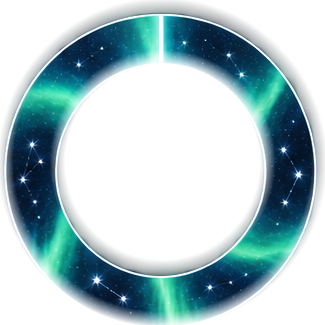
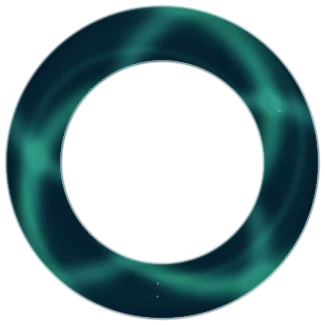
Add files via upload

diff --git a/src/styles.css b/src/styles.css
@@ -1112,11 +1112,11 @@ body.admin-mode button{
 
 /* Aurora Apex / timed navigation capture */
 .aurora-panel{position:relative;overflow:hidden;background:
-  radial-gradient(54% 32% at 50% 31%,rgba(28,145,163,.22),transparent 75%),
-  radial-gradient(38% 22% at 16% 55%,rgba(40,215,179,.13),transparent 74%),
-  radial-gradient(40% 24% at 84% 52%,rgba(40,215,179,.13),transparent 74%),
+  radial-gradient(54% 32% at 50% 31%,rgba(28,145,163,.08),transparent 75%),
+  radial-gradient(38% 22% at 16% 55%,rgba(40,215,179,.045),transparent 74%),
+  radial-gradient(40% 24% at 84% 52%,rgba(40,215,179,.045),transparent 74%),
   linear-gradient(180deg,rgba(5,25,39,.98),rgba(3,16,27,.99));border-color:#205e76;}
-.aurora-panel::before{content:"";position:absolute;inset:0;pointer-events:none;opacity:.72;background-image:
+.aurora-panel::before{content:"";position:absolute;inset:0;pointer-events:none;opacity:.46;background-image:
   radial-gradient(1.5px 1.5px at 8% 16%,rgba(255,255,255,.85),transparent 75%),
   radial-gradient(1.2px 1.2px at 17% 31%,rgba(255,255,255,.65),transparent 75%),
   radial-gradient(1.4px 1.4px at 27% 13%,rgba(255,255,255,.78),transparent 75%),
@@ -1128,70 +1128,70 @@ body.admin-mode button{
   radial-gradient(1.2px 1.2px at 12% 64%,rgba(255,255,255,.72),transparent 75%),
   radial-gradient(1.4px 1.4px at 82% 69%,rgba(255,255,255,.66),transparent 75%);}
 .aurora-atmosphere{position:absolute;inset:0;pointer-events:none;background:
-  radial-gradient(38% 30% at 6% 53%,rgba(75,243,195,.12),transparent 72%),
-  radial-gradient(40% 32% at 95% 48%,rgba(75,243,195,.13),transparent 72%);}
+  radial-gradient(38% 30% at 6% 53%,rgba(75,243,195,.04),transparent 72%),
+  radial-gradient(40% 32% at 95% 48%,rgba(75,243,195,.045),transparent 72%);}
 .aurora-north{position:relative;z-index:6;display:grid;justify-items:center;gap:2px;margin:0 auto 4px;color:#efffff;text-align:center;transition:filter .14s ease,transform .14s ease;}
-.aurora-north-star{font-size:30px;line-height:.82;color:#eaffff;text-shadow:0 0 10px #eaffff,0 0 24px rgba(75,243,237,.78);transition:.16s ease;}
+.aurora-north-star{font-size:30px;line-height:.82;color:#eaffff;text-shadow:0 0 6px rgba(234,255,255,.9),0 0 14px rgba(75,243,237,.38);transition:.16s ease;}
 .aurora-north strong{font-family:var(--display);font-size:12px;letter-spacing:.14em;text-transform:uppercase;}
 .aurora-north i{width:0;height:0;border-left:8px solid transparent;border-right:8px solid transparent;border-bottom:14px solid #efffff;margin-top:2px;filter:drop-shadow(0 0 7px rgba(119,242,255,.58));transition:.16s ease;}
 .aurora-north.capture-ready{filter:brightness(1.2);transform:translateY(1px);}
-.aurora-north.capture-ready .aurora-north-star{text-shadow:0 0 9px #fff,0 0 20px #79f6ff,0 0 34px rgba(80,239,210,.72);}
+.aurora-north.capture-ready .aurora-north-star{text-shadow:0 0 7px #fff,0 0 15px rgba(121,246,255,.75),0 0 22px rgba(80,239,210,.38);}
 .aurora-north.capture-ready i{filter:drop-shadow(0 0 10px rgba(185,255,255,.95));}
 .aurora-north.complete{animation:auroraNorthLock .9s ease-out both;}
 
-.aurora-dial{position:relative;z-index:3;aspect-ratio:1;margin:0 auto;touch-action:none;user-select:none;border-radius:50%;cursor:pointer;box-shadow:0 0 34px rgba(28,155,181,.08);outline:none;isolation:isolate;}
+.aurora-dial{position:relative;z-index:3;aspect-ratio:1;margin:0 auto;touch-action:none;user-select:none;border-radius:50%;cursor:pointer;box-shadow:0 0 18px rgba(28,155,181,.035);outline:none;isolation:isolate;}
 .aurora-dial:focus-visible{outline:2px solid rgba(108,235,255,.9);outline-offset:4px;}
 .aurora-dial.pressed{transform:scale(.997);}
 .aurora-field{position:absolute;inset:2.6%;border-radius:50%;pointer-events:none;background:
-  radial-gradient(circle at 50% 50%,#061c2b 0 17%,rgba(3,17,28,.98) 17% 100%),
-  radial-gradient(circle at 31% 39%,rgba(42,225,194,.08),transparent 21%),
-  radial-gradient(circle at 70% 63%,rgba(42,205,236,.07),transparent 24%);box-shadow:inset 0 0 0 1px rgba(108,221,239,.08);}
+  radial-gradient(circle at 50% 50%,#061927 0 17%,rgba(3,15,25,.99) 17% 100%),
+  radial-gradient(circle at 31% 39%,rgba(42,225,194,.028),transparent 21%),
+  radial-gradient(circle at 70% 63%,rgba(42,205,236,.025),transparent 24%);box-shadow:inset 0 0 0 1px rgba(108,221,239,.055);}
 .aurora-field::before{content:"";position:absolute;inset:0;border-radius:50%;background:
   radial-gradient(circle at 24% 31%,rgba(255,255,255,.76) 0 1px,transparent 1.8px),
   radial-gradient(circle at 33% 72%,rgba(255,255,255,.72) 0 1px,transparent 1.7px),
   radial-gradient(circle at 76% 29%,rgba(255,255,255,.74) 0 1px,transparent 1.8px),
   radial-gradient(circle at 69% 70%,rgba(255,255,255,.64) 0 1px,transparent 1.7px);}
-.aurora-target-line{position:absolute;z-index:8;left:50%;top:3.5%;height:47%;width:2px;transform:translateX(-50%);background:linear-gradient(180deg,#efffff 0%,rgba(95,246,255,.68) 28%,rgba(95,246,255,.13) 76%,transparent);box-shadow:0 0 9px rgba(123,246,255,.48);pointer-events:none;transition:filter .15s ease,box-shadow .15s ease,width .15s ease;}
+.aurora-target-line{position:absolute;z-index:8;left:50%;top:3.5%;height:47%;width:1px;transform:translateX(-50%);background:linear-gradient(180deg,rgba(239,255,255,.92) 0%,rgba(95,246,255,.48) 28%,rgba(95,246,255,.08) 76%,transparent);box-shadow:0 0 5px rgba(123,246,255,.28);pointer-events:none;transition:filter .15s ease,box-shadow .15s ease,width .15s ease;}
 .aurora-capture-gate{position:absolute;z-index:9;left:50%;top:2.1%;width:42px;height:18px;transform:translateX(-50%);pointer-events:none;opacity:.72;}
 .aurora-capture-gate::before,.aurora-capture-gate::after{content:"";position:absolute;top:0;width:12px;height:12px;border-top:1px solid rgba(199,249,255,.72);}
 .aurora-capture-gate::before{left:0;border-left:1px solid rgba(199,249,255,.72);transform:skewX(-16deg);}
 .aurora-capture-gate::after{right:0;border-right:1px solid rgba(199,249,255,.72);transform:skewX(16deg);}
 .aurora-capture-gate i{position:absolute;left:50%;top:0;width:4px;height:4px;margin-left:-2px;border-radius:50%;background:#efffff;box-shadow:0 0 8px rgba(188,250,255,.9);}
-.aurora-dial.capture-ready .aurora-target-line{width:3px;filter:brightness(1.28);box-shadow:0 0 9px #c8fbff,0 0 20px rgba(85,238,225,.68);}
+.aurora-dial.capture-ready .aurora-target-line{width:2px;filter:brightness(1.18);box-shadow:0 0 6px rgba(200,251,255,.8),0 0 12px rgba(85,238,225,.35);}
 .aurora-dial.capture-ready .aurora-capture-gate{opacity:1;filter:drop-shadow(0 0 7px rgba(116,244,255,.8));}
 
-.aurora-ring{--aurora-rotation:0deg;position:absolute;left:50%;top:50%;transform:translate(-50%,-50%) rotate(var(--aurora-rotation));transform-origin:50% 50%;will-change:transform,filter;pointer-events:none;transition:filter .16s ease,opacity .16s ease;}
-.aurora-ring img{display:block;width:100%;height:100%;object-fit:contain;pointer-events:none;user-select:none;-webkit-user-drag:none;filter:saturate(1.08) contrast(1.03);}
+.aurora-ring{--aurora-rotation:0deg;position:absolute;inset:0;margin:auto;transform:rotate(var(--aurora-rotation));transform-origin:50% 50%;will-change:transform,filter;pointer-events:none;transition:filter .16s ease,opacity .16s ease;}
+.aurora-ring img{display:block;width:100%;height:100%;object-fit:contain;pointer-events:none;user-select:none;-webkit-user-drag:none;filter:saturate(.94) contrast(1.02) brightness(.97);}
 .aurora-ring-outer{width:91%;height:91%;z-index:3;}
 .aurora-ring-middle{width:60%;height:60%;z-index:4;}
 .aurora-ring-inner{width:34%;height:34%;z-index:5;}
 .aurora-lock-notch{position:absolute;z-index:6;left:50%;top:-1px;width:5px;height:12px;border-radius:4px;transform:translateX(-50%);background:linear-gradient(180deg,#f6ffff,#83edff 60%,rgba(91,219,238,.15));box-shadow:0 0 6px rgba(214,253,255,.82),0 0 13px rgba(76,218,244,.36);opacity:.28;transition:opacity .15s ease,filter .15s ease,height .15s ease;}
-.aurora-ring.active{filter:drop-shadow(0 0 12px rgba(98,229,247,.31));}
+.aurora-ring.active{filter:drop-shadow(0 0 6px rgba(98,229,247,.17));}
 .aurora-ring.active .aurora-lock-notch{opacity:.96;height:14px;}
-.aurora-ring.near-lock{filter:drop-shadow(0 0 22px rgba(136,252,241,.74)) brightness(1.08);}
+.aurora-ring.near-lock{filter:drop-shadow(0 0 10px rgba(136,252,241,.38)) brightness(1.045);}
 .aurora-ring.near-lock .aurora-lock-notch{filter:brightness(1.35);box-shadow:0 0 8px #f4ffff,0 0 19px rgba(104,244,226,.86);}
-.aurora-ring.braking{filter:drop-shadow(0 0 20px rgba(119,239,255,.68)) brightness(1.06);}
-.aurora-ring.locked{filter:drop-shadow(0 0 16px rgba(83,239,145,.54)) saturate(1.07);}
-.aurora-ring.locked img{filter:saturate(1.13) brightness(1.06) hue-rotate(7deg);}
+.aurora-ring.braking{filter:drop-shadow(0 0 9px rgba(119,239,255,.34)) brightness(1.04);}
+.aurora-ring.locked{filter:drop-shadow(0 0 8px rgba(83,239,145,.28)) saturate(1.04);}
+.aurora-ring.locked img{filter:saturate(1.02) brightness(1.035) hue-rotate(4deg);}
 .aurora-ring.locked .aurora-lock-notch{opacity:1;background:linear-gradient(180deg,#fff,#79f1ab 70%,rgba(75,231,139,.18));box-shadow:0 0 8px #eafff0,0 0 17px rgba(83,239,145,.65);}
 .aurora-ring.lock-burst{animation:auroraRingLock .58s ease-out;}
 .aurora-ring.wake{animation:auroraRingWake .5s ease-out;}
 .aurora-ring.miss{animation:auroraRingMiss .25s ease-out;}
 
-.aurora-charge-pulse{--pulse-size:91%;position:absolute;z-index:7;left:50%;top:50%;width:var(--pulse-size);height:var(--pulse-size);border:2px solid rgba(159,255,225,.9);border-radius:50%;transform:translate(-50%,-50%) scale(1);opacity:0;pointer-events:none;box-shadow:0 0 17px rgba(86,239,186,.34),inset 0 0 15px rgba(98,239,207,.16);}
+.aurora-charge-pulse{--pulse-size:91%;position:absolute;z-index:7;left:50%;top:50%;width:var(--pulse-size);height:var(--pulse-size);border:1px solid rgba(159,255,225,.78);border-radius:50%;transform:translate(-50%,-50%) scale(1);opacity:0;pointer-events:none;box-shadow:0 0 8px rgba(86,239,186,.18),inset 0 0 8px rgba(98,239,207,.08);}
 .aurora-charge-pulse.fire{animation:auroraChargeIn .55s cubic-bezier(.25,.7,.2,1) both;}
 .aurora-final-wave{position:absolute;z-index:7;left:50%;top:50%;width:20%;height:20%;border:2px solid rgba(212,255,244,.9);border-radius:50%;transform:translate(-50%,-50%) scale(.35);opacity:0;pointer-events:none;}
 .aurora-final-wave.fire{animation:auroraFinalWave 1.15s ease-out both;}
 
-.aurora-compass{position:absolute;z-index:10;left:50%;top:50%;width:19%;height:19%;transform:translate(-50%,-50%);border-radius:50%;border:1px solid rgba(221,250,255,.9);display:grid;place-items:center;background:radial-gradient(circle,rgba(7,38,56,.98),rgba(3,15,26,.99));box-shadow:0 0 22px rgba(67,212,231,.12),inset 0 0 18px rgba(58,191,217,.07);pointer-events:none;transition:box-shadow .24s ease,border-color .24s ease,filter .24s ease;}
+.aurora-compass{position:absolute;z-index:10;left:50%;top:50%;width:19%;height:19%;transform:translate(-50%,-50%);border-radius:50%;border:1px solid rgba(221,250,255,.82);display:grid;place-items:center;background:radial-gradient(circle,rgba(7,34,50,.98),rgba(3,14,24,.99));box-shadow:0 0 12px rgba(67,212,231,.07),inset 0 0 13px rgba(58,191,217,.045);pointer-events:none;transition:box-shadow .24s ease,border-color .24s ease,filter .24s ease;}
 .aurora-compass::before,.aurora-compass::after{content:"";position:absolute;background:rgba(109,225,244,.19);}
 .aurora-compass::before{width:1px;height:78%;left:50%;top:11%;}.aurora-compass::after{height:1px;width:78%;left:11%;top:50%;}
-.aurora-compass span{position:relative;z-index:2;font-size:31px;color:#f4ffff;text-shadow:0 0 13px rgba(141,245,255,.92);transition:transform .24s ease,text-shadow .24s ease,filter .24s ease;}
+.aurora-compass span{position:relative;z-index:2;font-size:31px;color:#f4ffff;text-shadow:0 0 7px rgba(141,245,255,.62);transition:transform .24s ease,text-shadow .24s ease,filter .24s ease;}
 .aurora-dial[data-charge="1"] .aurora-compass{box-shadow:0 0 24px rgba(73,219,226,.22),inset 0 0 19px rgba(71,210,216,.12);}
 .aurora-dial[data-charge="1"] .aurora-compass span{transform:scale(1.05);text-shadow:0 0 12px #d9ffff,0 0 20px rgba(89,232,229,.68);}
-.aurora-dial[data-charge="2"] .aurora-compass{border-color:rgba(183,255,233,.95);box-shadow:0 0 27px rgba(83,239,176,.31),inset 0 0 22px rgba(74,231,185,.17);}
+.aurora-dial[data-charge="2"] .aurora-compass{border-color:rgba(183,255,233,.9);box-shadow:0 0 16px rgba(83,239,176,.18),inset 0 0 15px rgba(74,231,185,.10);}
 .aurora-dial[data-charge="2"] .aurora-compass span{transform:scale(1.12);text-shadow:0 0 9px #fff,0 0 20px rgba(108,255,211,.82),0 0 32px rgba(74,221,219,.38);}
-.aurora-dial[data-charge="3"] .aurora-compass{border-color:#dffff1;box-shadow:0 0 30px rgba(92,247,177,.46),0 0 50px rgba(81,220,235,.16),inset 0 0 24px rgba(93,244,193,.2);}
+.aurora-dial[data-charge="3"] .aurora-compass{border-color:#dffff1;box-shadow:0 0 18px rgba(92,247,177,.26),0 0 28px rgba(81,220,235,.08),inset 0 0 16px rgba(93,244,193,.12);}
 .aurora-dial[data-charge="3"] .aurora-compass span{transform:scale(1.2);text-shadow:0 0 8px #fff,0 0 20px #8fffc7,0 0 40px rgba(83,239,201,.72);}
 
 .aurora-dial.miss{animation:auroraDialMiss .25s ease-out;}
@@ -1213,18 +1213,18 @@ body.admin-mode button{
 .aurora-ring-status.locked strong,.aurora-ring-status.locked small{color:var(--green);}
 .aurora-ring-status.locked .aurora-mini-ring{border-color:#57ef91;border-right-color:#f7fff9;box-shadow:0 0 10px rgba(83,239,145,.28);animation:none;}
 
-@keyframes auroraRingLock{0%{filter:brightness(1)}35%{filter:brightness(1.65) drop-shadow(0 0 24px rgba(150,255,221,.95))}100%{filter:drop-shadow(0 0 16px rgba(83,239,145,.54)) saturate(1.07)}}
-@keyframes auroraRingWake{0%{filter:brightness(1)}45%{filter:brightness(1.28) drop-shadow(0 0 20px rgba(96,230,255,.6))}100%{filter:drop-shadow(0 0 12px rgba(98,229,247,.31))}}
+@keyframes auroraRingLock{0%{filter:brightness(1)}35%{filter:brightness(1.30) drop-shadow(0 0 11px rgba(150,255,221,.48))}100%{filter:drop-shadow(0 0 8px rgba(83,239,145,.28)) saturate(1.04)}}
+@keyframes auroraRingWake{0%{filter:brightness(1)}45%{filter:brightness(1.15) drop-shadow(0 0 9px rgba(96,230,255,.32))}100%{filter:drop-shadow(0 0 6px rgba(98,229,247,.17))}}
 @keyframes auroraRingMiss{0%,100%{opacity:1}45%{opacity:.62;filter:brightness(1.2)}}
 @keyframes auroraChargeIn{0%{opacity:.8;transform:translate(-50%,-50%) scale(1)}68%{opacity:.68}100%{opacity:0;transform:translate(-50%,-50%) scale(.17)}}
 @keyframes auroraMiniActive{0%,100%{box-shadow:0 0 8px rgba(76,201,238,.16)}50%{box-shadow:0 0 14px rgba(76,201,238,.38)}}
 @keyframes auroraDialMiss{0%,100%{filter:none}50%{filter:brightness(.84)}}
 @keyframes auroraFinalWave{0%{opacity:.82;transform:translate(-50%,-50%) scale(.35)}75%{opacity:.25}100%{opacity:0;transform:translate(-50%,-50%) scale(4.65)}}
-@keyframes auroraFinalRing{0%{filter:brightness(1.05)}20%{filter:brightness(1.72) saturate(1.22) drop-shadow(0 0 23px rgba(137,255,210,.86))}55%{filter:brightness(1.28) saturate(1.16) drop-shadow(0 0 20px rgba(83,239,145,.58))}100%{filter:brightness(1.14) saturate(1.12) drop-shadow(0 0 15px rgba(83,239,145,.44))}}
+@keyframes auroraFinalRing{0%{filter:brightness(1.03)}20%{filter:brightness(1.38) saturate(1.10) drop-shadow(0 0 12px rgba(137,255,210,.50))}55%{filter:brightness(1.18) saturate(1.08) drop-shadow(0 0 10px rgba(83,239,145,.34))}100%{filter:brightness(1.09) saturate(1.06) drop-shadow(0 0 8px rgba(83,239,145,.26))}}
 @keyframes auroraCoreFinal{0%{filter:brightness(1);transform:translate(-50%,-50%) scale(1)}16%{filter:brightness(1.65);transform:translate(-50%,-50%) scale(1.12)}38%{filter:brightness(1.28);transform:translate(-50%,-50%) scale(1.04)}100%{filter:brightness(1.16);transform:translate(-50%,-50%) scale(1.02)}}
 @keyframes auroraBeamFire{0%{opacity:.3;filter:brightness(1)}12%{opacity:1;filter:brightness(2)}45%{opacity:1;filter:brightness(1.4)}100%{opacity:.9;filter:brightness(1.1)}}
 @keyframes auroraNorthLock{0%{filter:brightness(1)}18%{filter:brightness(1.65);transform:translateY(1px) scale(1.04)}100%{filter:brightness(1.14);transform:none}}
-@keyframes auroraLockPulse{0%{box-shadow:0 0 34px rgba(28,155,181,.08)}24%{box-shadow:0 0 54px rgba(83,239,145,.3)}100%{box-shadow:0 0 34px rgba(28,155,181,.1)}}
+@keyframes auroraLockPulse{0%{box-shadow:0 0 18px rgba(28,155,181,.035)}24%{box-shadow:0 0 28px rgba(83,239,145,.16)}100%{box-shadow:0 0 18px rgba(28,155,181,.045)}}
 
 @media(max-width:390px){.aurora-panel{padding-left:9px;padding-right:9px;}.aurora-dial{width:100%;}.aurora-ring-statuses{gap:6px;}.aurora-ring-status{padding:9px 6px;gap:5px;}.aurora-ring-status strong{font-size:8px;}.aurora-ring-status small{font-size:6px;}.aurora-mini-ring{flex-basis:21px;width:21px;height:21px;border-width:3px;}.aurora-compass span{font-size:26px;}}
 @media(prefers-reduced-motion:reduce){.aurora-ring.lock-burst,.aurora-ring.wake,.aurora-final-wave.fire,.aurora-ring.final-surge,.aurora-dial.complete,.aurora-north.complete,.aurora-ring-status.active .aurora-mini-ring{animation-duration:.18s!important;animation-iteration-count:1!important;}}

diff --git a/index.html b/index.html
@@ -7,7 +7,7 @@
   <meta name="apple-mobile-web-app-capable" content="yes" />
   <meta name="apple-mobile-web-app-status-bar-style" content="black-translucent" />
   <link rel="manifest" href="./manifest.webmanifest" />
-  <link rel="stylesheet" href="./src/styles.css?v=7.14.0" />
+  <link rel="stylesheet" href="./src/styles.css?v=7.15.0" />
   <title>Silverstone Mission Control</title>
 </head>
 <body>
@@ -40,6 +40,6 @@
       }
     })();
   </script>
-  <script src="./src/main.js?v=7.14.0" defer></script>
+  <script src="./src/main.js?v=7.15.0" defer></script>
 </body>
 </html>

diff --git a/PRODUCTION-AUDIT.md b/PRODUCTION-AUDIT.md
@@ -1,4 +1,4 @@
-# Pass 7.14.0 — Production Audit
+# Pass 7.15.0 — Production Audit
 
 ## Result
 
@@ -6,27 +6,25 @@
 
 ## Production footprint
 
-- `dist/`: **8.339 MiB**
+- `dist/`: **7.925 MiB**
 - Production files: **49**
-- Versus the accepted Pass 7.11.0 baseline: **+11,462 bytes (~11.2 KiB)** and **no additional production files**.
-- The delta is code/CSS only; no new artwork, music or sound assets were added.
+- Versus accepted Pass 7.14.0: **-434,555 bytes (~424.4 KiB)** with **no change in production file count**.
+- The reduction comes primarily from replacing the three previous illustrated Aurora WebPs with lighter procedural WebP artwork.
 - No WAV/source-master audio is deployed.
 - No Jingle Beams gameplay music is deployed; the rejected arena loop remains excluded by `build.js`.
 - No test/temp files are deployed.
 - Runtime images remain WebP/SVG and fonts WOFF2.
 
-## Aurora Apex update verified
+## Aurora Apex visual refinement verified
 
-- MC-10 now runs as a three-stage timed navigation capture rather than a manual drag alignment or vortex/orb game.
-- All three aurora rings begin in motion and share the exact same CSS origin (`left: 50%`, `top: 50%`, centred transform origin) with the centre star and North Pole axis.
-- Outer rotates clockwise with the broadest capture window; Middle counter-rotates faster with a tighter window.
-- Inner rotates fastest with a small speed variation and uses press/hold braking; it locks automatically when braked into the North Pole capture window or can lock on release inside the window.
-- A missed capture has no failure state: the ring continues rotating for another attempt.
-- Each successful capture snaps the ring to zero degrees, leaves it visibly powered, sends a pulse inward and advances the centre-star charge state.
-- The next ring receives a short wake reaction after each lock so the instrument behaves as one linked system.
-- No completion copy or status title is rendered over the ring artwork.
-- The third lock triggers a held visual payoff: all rings surge, the centre star blooms, the existing axis becomes a bright navigation beam and the North Pole marker flares before the normal Mission Complete screen appears.
-- Existing Aurora Apex WebP ring artwork is reused; no new media assets are required.
+- Pass 7.14 moving-ring capture gameplay is unchanged.
+- Outer, middle and inner ring wrappers now use a fixed `inset: 0; margin: auto` centre; rotation is applied independently, so the rotation transform cannot alter the rings' layout position.
+- All three replacement ring assets are generated as mathematically centred annuli around their exact image midpoint.
+- The centre star/compass and North Pole axis remain on the dial's 50% / 50% origin.
+- Panel-wide cyan bloom and ambient aurora haze are substantially reduced in the idle state.
+- Active, near-capture, braking and locked ring effects are restrained so the ring artwork remains readable while capture feedback is still clear.
+- Outer, middle and inner ring artwork now uses softer translucent aurora ribbons with sparse glints and no illustrated constellation-line treatment.
+- No new labels, completion titles or HUD elements are drawn over the instrument.
 - Pass 7.11 Jingle Beams gameplay/audio remains unchanged.
 
 ## Automated checks passed
@@ -48,13 +46,13 @@
 
 ## Non-blocking warnings
 
-1. **Deployment footprint:** 8.34 MB exceeds the 7 MB audit target, primarily because the full Lapland Launch music track remains intentionally retained.
+1. **Deployment footprint:** 7.92 MB exceeds the 7 MB audit target, primarily because the full Lapland Launch music track remains intentionally retained.
 2. **ELF FM stream:** current Radio Mast URL is still identified as a test stream and should be replaced when the production stream is supplied.
 3. **Web app manifest:** no install icon is defined; normal browser/QR use is unaffected.
 
-## Visual-test limitation
+## Visual verification
 
-A headless Chromium screenshot attempt was made, but Chromium does not complete page capture in this container environment. No browser playthrough is claimed. Geometry, interaction code, generated bundle, production build and static audit are verified as described above.
+A deterministic static composition check was used to verify the replacement ring assets share one exact centre and remain visually concentric at the production scale ratios. A full live browser playthrough is not claimed in this container environment.
 
 ## Re-run
 

diff --git a/CHANGELOG.md b/CHANGELOG.md
@@ -574,3 +574,14 @@ This pass adds a self-contained static build for Vercel. No Vercel project-setti
 - No completion titles or other text are drawn over the aurora rings. Ring, star and axis geometry share the same 50% / 50% origin to keep the instrument concentric.
 - No new artwork, music or production audio assets were added.
 - Bumped runtime asset cache version to 7.14.0.
+
+## Pass 7.15.0 — Aurora Apex visual refinement
+
+- Kept the accepted Pass 7.14 moving-ring capture gameplay unchanged.
+- Re-centred all three rotating ring wrappers using one fixed inset/margin origin so rotation can no longer influence their layout position.
+- Rebuilt the outer, middle and inner Aurora ring WebP artwork as mathematically centred annuli with softer procedural aurora ribbons, fewer stars and no illustrative constellation lines.
+- Reduced the panel-wide cyan bloom, atmospheric haze and idle ring drop-shadows so the aurora artwork remains readable against the dark instrument.
+- Reduced active/near-lock/locked bloom while keeping capture feedback and the final navigation payoff clearly visible.
+- Preserved the clean dial: no completion text or new HUD is drawn over the rings.
+- Bumped runtime asset cache version to 7.15.0.
+
